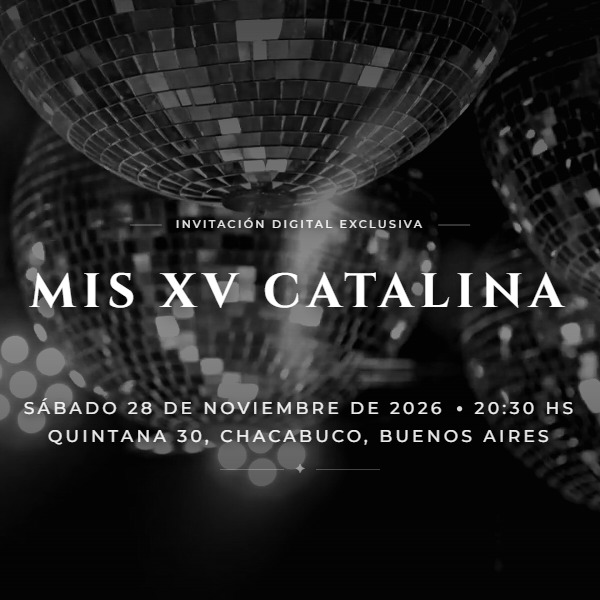
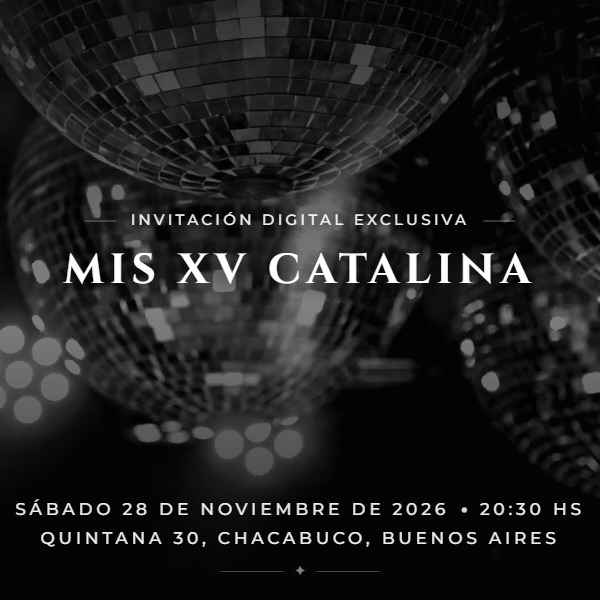
capture

Changed region(s): [[0.0, 0.0, 1.0, 0.96], [0.99, 0.09, 1.0, 0.12], [0.6, 0.0, 0.63, 0.03]]

diff --git a/client/public/capture.html b/client/public/capture.html
@@ -478,7 +478,7 @@
                 <span>Margen Superior</span>
                 <span id="marginTitleTopBadge" class="value-badge">24 px</span>
               </label>
-              <input type="range" id="marginTitleTop" min="0" max="80" step="1" value="24" oninput="updateRender()" />
+              <input type="range" id="marginTitleTop" min="0" max="300" step="1" value="24" oninput="updateRender()" />
             </div>
 
             <div class="form-group" style="margin-bottom: 0;">
@@ -486,7 +486,7 @@
                 <span>Margen Inferior</span>
                 <span id="marginTitleBottomBadge" class="value-badge">24 px</span>
               </label>
-              <input type="range" id="marginTitleBottom" min="0" max="80" step="1" value="24" oninput="updateRender()" />
+              <input type="range" id="marginTitleBottom" min="0" max="300" step="1" value="24" oninput="updateRender()" />
             </div>
           </div>
         </div>
